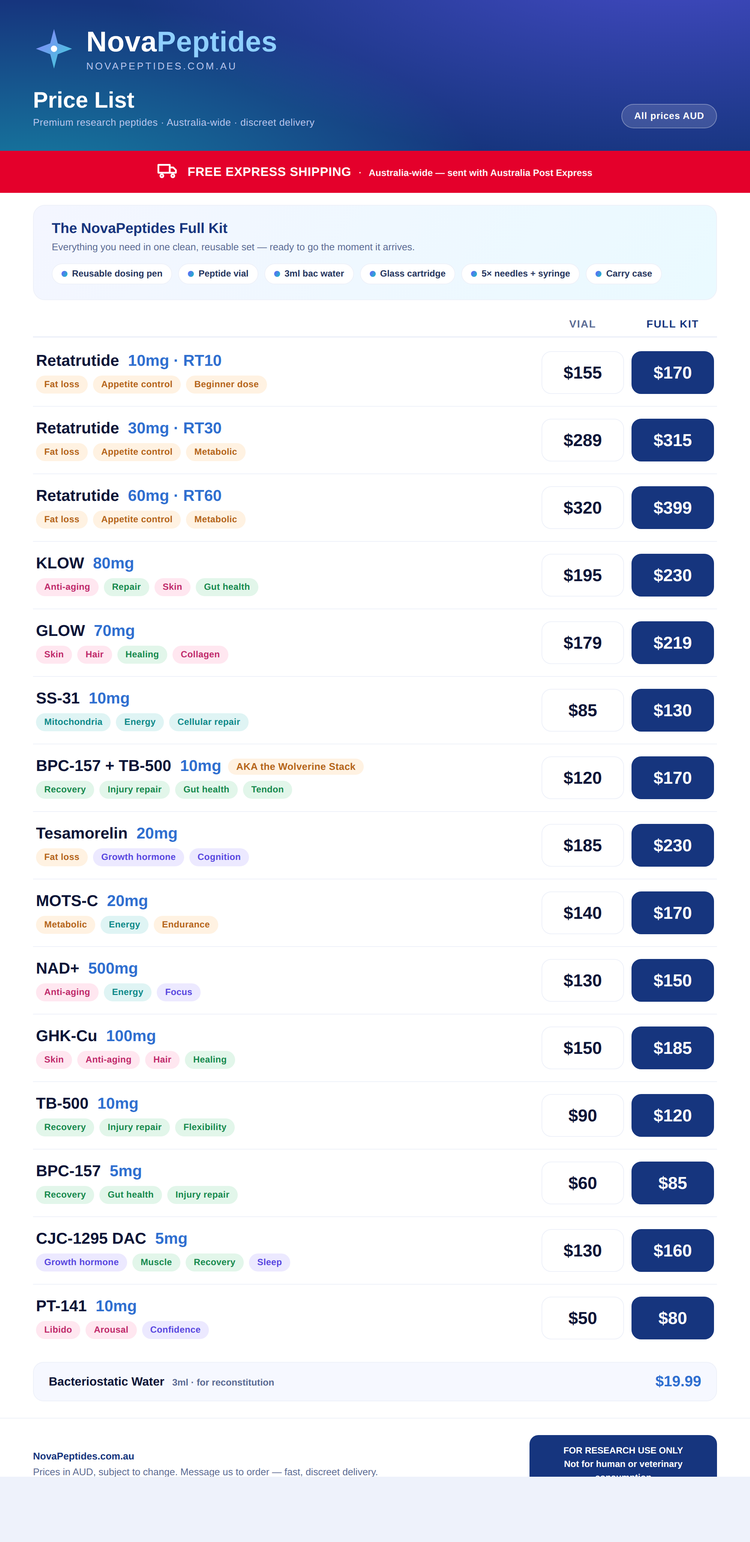
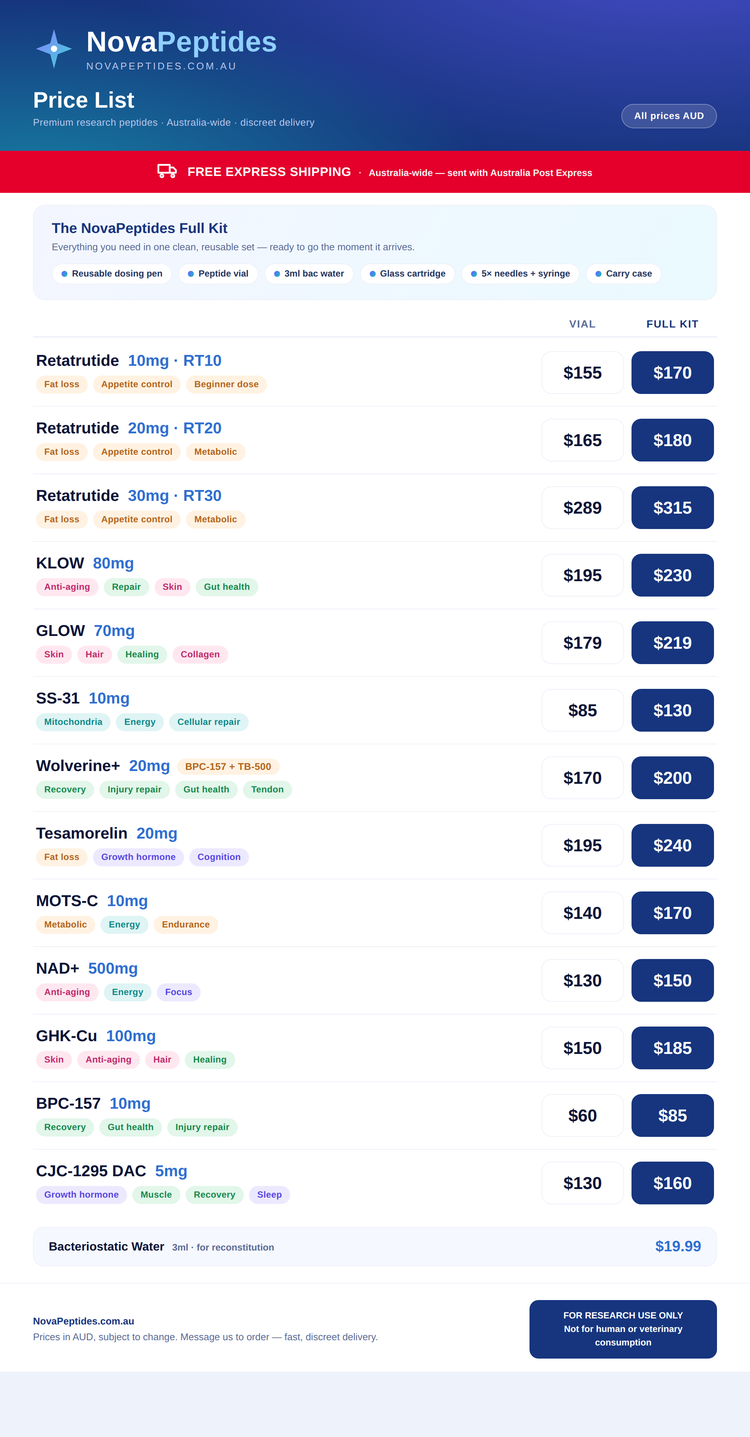
NovaPeptides: new supplier pricing + dose changes across P&L, price list, sales log, CSV
- New AUD cost prices for RT30, NAD+, KLOW, GLOW, Tesa, MOTS-C, SS-31, BPC-157, GHK-Cu, Wolverine
- Dose changes: MOTS-C 20->10mg, BPC-157 5->10mg, Wolverine 10->20mg (renamed Wolverine+)
- Added Reta RT20 (vial $165 / kit $180); Tesamorelin retail up to $195/$240; Wolverine+ $170/$200
- Removed Reta RT60, PT-141, standalone TB-500
- Recomputed totals: retail vials A$26,730 / kits A$31,790; cost of goods (current pricing) A$5,292
- Historical 'total spent' A$5,767 left unchanged (actual cash out)

Claude-Session: https://claude.ai/code/session_011vwkpM9KQ6PKS1DsXGJwTK

diff --git a/docs/index.html b/docs/index.html
@@ -85,23 +85,23 @@
         <div class="url">Profit &amp; Loss &middot; NovaPeptides.com.au</div>
       </div>
     </div>
-    <div class="basis">All AUD &middot; USD&rarr;AUD 1.45 &middot; kit parts A$22.95/kit &middot; 15 products &middot; updated 15 Jul 2026</div>
+    <div class="basis">All AUD &middot; USD&rarr;AUD 1.45 &middot; kit parts A$22.95/kit &middot; 13 products &middot; updated 17 Jul 2026</div>
 
     <div class="kpis">
       <div class="kpi accent">
         <div class="label">Retail &mdash; all vials</div>
-        <div class="val">A$28,980</div>
-        <div class="sub">profit A$24,894</div>
+        <div class="val">A$26,730</div>
+        <div class="sub">profit A$21,438</div>
       </div>
       <div class="kpi accent">
         <div class="label">Retail &mdash; all kits</div>
-        <div class="val">A$35,480</div>
-        <div class="sub">profit A$27,033</div>
+        <div class="val">A$31,790</div>
+        <div class="sub">profit A$22,597</div>
       </div>
       <div class="kpi">
-        <div class="label">Cost of goods (stock landed)</div>
-        <div class="val">A$4,086</div>
-        <div class="sub">190 vials &middot; 15 products</div>
+        <div class="label">Cost of goods (current pricing)</div>
+        <div class="val">A$5,292</div>
+        <div class="sub">170 vials &middot; 13 products</div>
       </div>
       <div class="kpi ship">
         <div class="label">Total spent (all in)</div>
@@ -144,25 +144,25 @@
   <div class="cards">
 
     <div class="pcard">
-      <h3>Reta RT60</h3>
-      <div class="pcost">Peptide cost <b>A$47.34</b>/vial (shipping incl)</div>
+      <h3>Reta RT30</h3>
+      <div class="pcost">Peptide cost <b>A$45.00</b>/vial (shipping incl)</div>
       <div class="variant"><div class="vleft"><span class="vtag vial">Vial</span>
-        <div class="vmeta">Retail A$320 &middot; cost A$47.34 &middot; <span class="mg">85%</span></div></div>
-        <div class="vprofit"><span class="plabel">Pure profit</span>A$272.66</div></div>
+        <div class="vmeta">Retail A$289 &middot; cost A$45.00 &middot; <span class="mg">84%</span></div></div>
+        <div class="vprofit"><span class="plabel">Pure profit</span>A$244.00</div></div>
       <div class="variant"><div class="vleft"><span class="vtag kit">Kit</span>
-        <div class="vmeta">Retail A$399 &middot; cost A$70.30 (peptide + parts A$22.95) &middot; <span class="mg">82%</span></div></div>
-        <div class="vprofit"><span class="plabel">Pure profit</span>A$328.70</div></div>
+        <div class="vmeta">Retail A$315 &middot; cost A$67.95 (peptide + parts A$22.95) &middot; <span class="mg">78%</span></div></div>
+        <div class="vprofit"><span class="plabel">Pure profit</span>A$247.05</div></div>
     </div>
 
     <div class="pcard">
-      <h3>Reta RT30</h3>
-      <div class="pcost">Peptide cost <b>A$31.31</b>/vial (shipping incl)</div>
+      <h3>Reta RT20 <span style="font-size:11px;color:var(--violet);font-weight:800">new</span></h3>
+      <div class="pcost">Peptide cost <b>A$25.00</b>/vial (shipping incl)</div>
       <div class="variant"><div class="vleft"><span class="vtag vial">Vial</span>
-        <div class="vmeta">Retail A$289 &middot; cost A$31.31 &middot; <span class="mg">89%</span></div></div>
-        <div class="vprofit"><span class="plabel">Pure profit</span>A$257.69</div></div>
+        <div class="vmeta">Retail A$165 &middot; cost A$25.00 &middot; <span class="mg">85%</span></div></div>
+        <div class="vprofit"><span class="plabel">Pure profit</span>A$140.00</div></div>
       <div class="variant"><div class="vleft"><span class="vtag kit">Kit</span>
-        <div class="vmeta">Retail A$315 &middot; cost A$54.26 (peptide + parts A$22.95) &middot; <span class="mg">83%</span></div></div>
-        <div class="vprofit"><span class="plabel">Pure profit</span>A$260.74</div></div>
+        <div class="vmeta">Retail A$180 &middot; cost A$47.95 (peptide + parts A$22.95) &middot; <span class="mg">73%</span></div></div>
+        <div class="vprofit"><span class="plabel">Pure profit</span>A$132.05</div></div>
     </div>
 
     <div class="pcard">
@@ -177,102 +177,80 @@
     </div>
 
     <div class="pcard">
-      <h3>GLOW 70mg</h3>
-      <div class="pcost">Peptide cost <b>A$33.13</b>/vial (shipping incl)</div>
-      <div class="variant"><div class="vleft"><span class="vtag vial">Vial</span>
-        <div class="vmeta">Retail A$179 &middot; cost A$33.13 &middot; <span class="mg">81%</span></div></div>
-        <div class="vprofit"><span class="plabel">Pure profit</span>A$145.87</div></div>
-      <div class="variant"><div class="vleft"><span class="vtag kit">Kit</span>
-        <div class="vmeta">Retail A$219 &middot; cost A$56.09 (peptide + parts A$22.95) &middot; <span class="mg">74%</span></div></div>
-        <div class="vprofit"><span class="plabel">Pure profit</span>A$162.91</div></div>
-    </div>
-
-    <div class="pcard">
       <h3>KLOW 80mg</h3>
-      <div class="pcost">Peptide cost <b>A$39.09</b>/vial (shipping incl)</div>
+      <div class="pcost">Peptide cost <b>A$40.00</b>/vial (shipping incl)</div>
       <div class="variant"><div class="vleft"><span class="vtag vial">Vial</span>
-        <div class="vmeta">Retail A$195 &middot; cost A$39.09 &middot; <span class="mg">80%</span></div></div>
-        <div class="vprofit"><span class="plabel">Pure profit</span>A$155.91</div></div>
+        <div class="vmeta">Retail A$195 &middot; cost A$40.00 &middot; <span class="mg">79%</span></div></div>
+        <div class="vprofit"><span class="plabel">Pure profit</span>A$155.00</div></div>
       <div class="variant"><div class="vleft"><span class="vtag kit">Kit</span>
-        <div class="vmeta">Retail A$230 &middot; cost A$62.05 (peptide + parts A$22.95) &middot; <span class="mg">73%</span></div></div>
-        <div class="vprofit"><span class="plabel">Pure profit</span>A$167.95</div></div>
+        <div class="vmeta">Retail A$230 &middot; cost A$62.95 (peptide + parts A$22.95) &middot; <span class="mg">73%</span></div></div>
+        <div class="vprofit"><span class="plabel">Pure profit</span>A$167.05</div></div>
     </div>
 
     <div class="pcard">
-      <h3>SS-31 10mg</h3>
-      <div class="pcost">Peptide cost <b>A$14.96</b>/vial (shipping incl)</div>
+      <h3>GLOW 70mg</h3>
+      <div class="pcost">Peptide cost <b>A$35.00</b>/vial (shipping incl)</div>
       <div class="variant"><div class="vleft"><span class="vtag vial">Vial</span>
-        <div class="vmeta">Retail A$85 &middot; cost A$14.96 &middot; <span class="mg">82%</span></div></div>
-        <div class="vprofit"><span class="plabel">Pure profit</span>A$70.04</div></div>
+        <div class="vmeta">Retail A$179 &middot; cost A$35.00 &middot; <span class="mg">80%</span></div></div>
+        <div class="vprofit"><span class="plabel">Pure profit</span>A$144.00</div></div>
       <div class="variant"><div class="vleft"><span class="vtag kit">Kit</span>
-        <div class="vmeta">Retail A$130 &middot; cost A$37.92 (peptide + parts A$22.95) &middot; <span class="mg">71%</span></div></div>
-        <div class="vprofit"><span class="plabel">Pure profit</span>A$92.08</div></div>
-    </div>
-
-    <div class="pcard">
-      <h3>BPC-157 + TB-500</h3>
-      <div class="pcost">Peptide cost <b>A$17.11</b>/vial (shipping incl)</div>
-      <div class="variant"><div class="vleft"><span class="vtag vial">Vial</span>
-        <div class="vmeta">Retail A$120 &middot; cost A$17.11 &middot; <span class="mg">86%</span></div></div>
-        <div class="vprofit"><span class="plabel">Pure profit</span>A$102.89</div></div>
-      <div class="variant"><div class="vleft"><span class="vtag kit">Kit</span>
-        <div class="vmeta">Retail A$170 &middot; cost A$40.06 (peptide + parts A$22.95) &middot; <span class="mg">76%</span></div></div>
-        <div class="vprofit"><span class="plabel">Pure profit</span>A$129.94</div></div>
+        <div class="vmeta">Retail A$219 &middot; cost A$57.95 (peptide + parts A$22.95) &middot; <span class="mg">74%</span></div></div>
+        <div class="vprofit"><span class="plabel">Pure profit</span>A$161.05</div></div>
     </div>
 
     <div class="pcard">
       <h3>Tesamorelin 20mg</h3>
-      <div class="pcost">Peptide cost <b>A$27.86</b>/vial (shipping incl)</div>
+      <div class="pcost">Peptide cost <b>A$55.00</b>/vial (shipping incl)</div>
       <div class="variant"><div class="vleft"><span class="vtag vial">Vial</span>
-        <div class="vmeta">Retail A$185 &middot; cost A$27.86 &middot; <span class="mg">85%</span></div></div>
-        <div class="vprofit"><span class="plabel">Pure profit</span>A$157.14</div></div>
+        <div class="vmeta">Retail A$195 &middot; cost A$55.00 &middot; <span class="mg">72%</span></div></div>
+        <div class="vprofit"><span class="plabel">Pure profit</span>A$140.00</div></div>
       <div class="variant"><div class="vleft"><span class="vtag kit">Kit</span>
-        <div class="vmeta">Retail A$230 &middot; cost A$50.81 (peptide + parts A$22.95) &middot; <span class="mg">78%</span></div></div>
-        <div class="vprofit"><span class="plabel">Pure profit</span>A$179.19</div></div>
+        <div class="vmeta">Retail A$240 &middot; cost A$77.95 (peptide + parts A$22.95) &middot; <span class="mg">68%</span></div></div>
+        <div class="vprofit"><span class="plabel">Pure profit</span>A$162.05</div></div>
     </div>
 
     <div class="pcard">
-      <h3>MOTS-C 20mg</h3>
-      <div class="pcost">Peptide cost <b>A$23.15</b>/vial (shipping incl)</div>
+      <h3>Wolverine+ <span style="font-size:11px;color:var(--violet);font-weight:800">20mg</span></h3>
+      <div class="pcost">Peptide cost <b>A$45.00</b>/vial (shipping incl) &middot; BPC-157 + TB-500</div>
       <div class="variant"><div class="vleft"><span class="vtag vial">Vial</span>
-        <div class="vmeta">Retail A$140 &middot; cost A$23.15 &middot; <span class="mg">83%</span></div></div>
-        <div class="vprofit"><span class="plabel">Pure profit</span>A$116.85</div></div>
+        <div class="vmeta">Retail A$170 &middot; cost A$45.00 &middot; <span class="mg">74%</span></div></div>
+        <div class="vprofit"><span class="plabel">Pure profit</span>A$125.00</div></div>
       <div class="variant"><div class="vleft"><span class="vtag kit">Kit</span>
-        <div class="vmeta">Retail A$170 &middot; cost A$46.10 (peptide + parts A$22.95) &middot; <span class="mg">73%</span></div></div>
-        <div class="vprofit"><span class="plabel">Pure profit</span>A$123.90</div></div>
-    </div>
-
-    <div class="pcard">
-      <h3>NAD+ 500mg</h3>
-      <div class="pcost">Peptide cost <b>A$12.30</b>/vial (shipping incl)</div>
-      <div class="variant"><div class="vleft"><span class="vtag vial">Vial</span>
-        <div class="vmeta">Retail A$130 &middot; cost A$12.30 &middot; <span class="mg">91%</span></div></div>
-        <div class="vprofit"><span class="plabel">Pure profit</span>A$117.70</div></div>
-      <div class="variant"><div class="vleft"><span class="vtag kit">Kit</span>
-        <div class="vmeta">Retail A$150 &middot; cost A$35.25 (peptide + parts A$22.95) &middot; <span class="mg">76%</span></div></div>
-        <div class="vprofit"><span class="plabel">Pure profit</span>A$114.75</div></div>
+        <div class="vmeta">Retail A$200 &middot; cost A$67.95 (peptide + parts A$22.95) &middot; <span class="mg">66%</span></div></div>
+        <div class="vprofit"><span class="plabel">Pure profit</span>A$132.05</div></div>
     </div>
 
     <div class="pcard">
       <h3>GHK-Cu 100mg</h3>
-      <div class="pcost">Peptide cost <b>A$9.48</b>/vial (shipping incl)</div>
+      <div class="pcost">Peptide cost <b>A$26.00</b>/vial (shipping incl)</div>
       <div class="variant"><div class="vleft"><span class="vtag vial">Vial</span>
-        <div class="vmeta">Retail A$150 &middot; cost A$9.48 &middot; <span class="mg">94%</span></div></div>
-        <div class="vprofit"><span class="plabel">Pure profit</span>A$140.52</div></div>
+        <div class="vmeta">Retail A$150 &middot; cost A$26.00 &middot; <span class="mg">83%</span></div></div>
+        <div class="vprofit"><span class="plabel">Pure profit</span>A$124.00</div></div>
       <div class="variant"><div class="vleft"><span class="vtag kit">Kit</span>
-        <div class="vmeta">Retail A$185 &middot; cost A$32.43 (peptide + parts A$22.95) &middot; <span class="mg">82%</span></div></div>
-        <div class="vprofit"><span class="plabel">Pure profit</span>A$152.57</div></div>
+        <div class="vmeta">Retail A$185 &middot; cost A$48.95 (peptide + parts A$22.95) &middot; <span class="mg">74%</span></div></div>
+        <div class="vprofit"><span class="plabel">Pure profit</span>A$136.05</div></div>
     </div>
 
     <div class="pcard">
-      <h3>TB-500 10mg</h3>
-      <div class="pcost">Peptide cost <b>A$18.26</b>/vial (shipping incl)</div>
+      <h3>MOTS-C 10mg</h3>
+      <div class="pcost">Peptide cost <b>A$24.00</b>/vial (shipping incl)</div>
       <div class="variant"><div class="vleft"><span class="vtag vial">Vial</span>
-        <div class="vmeta">Retail A$90 &middot; cost A$18.26 &middot; <span class="mg">80%</span></div></div>
-        <div class="vprofit"><span class="plabel">Pure profit</span>A$71.74</div></div>
+        <div class="vmeta">Retail A$140 &middot; cost A$24.00 &middot; <span class="mg">83%</span></div></div>
+        <div class="vprofit"><span class="plabel">Pure profit</span>A$116.00</div></div>
       <div class="variant"><div class="vleft"><span class="vtag kit">Kit</span>
-        <div class="vmeta">Retail A$120 &middot; cost A$41.21 (peptide + parts A$22.95) &middot; <span class="mg">66%</span></div></div>
-        <div class="vprofit"><span class="plabel">Pure profit</span>A$78.79</div></div>
+        <div class="vmeta">Retail A$170 &middot; cost A$46.95 (peptide + parts A$22.95) &middot; <span class="mg">72%</span></div></div>
+        <div class="vprofit"><span class="plabel">Pure profit</span>A$123.05</div></div>
+    </div>
+
+    <div class="pcard">
+      <h3>NAD+ 500mg</h3>
+      <div class="pcost">Peptide cost <b>A$22.50</b>/vial (shipping incl)</div>
+      <div class="variant"><div class="vleft"><span class="vtag vial">Vial</span>
+        <div class="vmeta">Retail A$130 &middot; cost A$22.50 &middot; <span class="mg">83%</span></div></div>
+        <div class="vprofit"><span class="plabel">Pure profit</span>A$107.50</div></div>
+      <div class="variant"><div class="vleft"><span class="vtag kit">Kit</span>
+        <div class="vmeta">Retail A$150 &middot; cost A$45.45 (peptide + parts A$22.95) &middot; <span class="mg">70%</span></div></div>
+        <div class="vprofit"><span class="plabel">Pure profit</span>A$104.55</div></div>
     </div>
 
     <div class="pcard">
@@ -287,25 +265,25 @@
     </div>
 
     <div class="pcard">
-      <h3>PT-141 10mg</h3>
-      <div class="pcost">Peptide cost <b>A$11.78</b>/vial (shipping incl)</div>
+      <h3>SS-31 10mg</h3>
+      <div class="pcost">Peptide cost <b>A$37.00</b>/vial (shipping incl)</div>
       <div class="variant"><div class="vleft"><span class="vtag vial">Vial</span>
-        <div class="vmeta">Retail A$50 &middot; cost A$11.78 &middot; <span class="mg">76%</span></div></div>
-        <div class="vprofit"><span class="plabel">Pure profit</span>A$38.22</div></div>
+        <div class="vmeta">Retail A$85 &middot; cost A$37.00 &middot; <span class="mg">56%</span></div></div>
+        <div class="vprofit"><span class="plabel">Pure profit</span>A$48.00</div></div>
       <div class="variant"><div class="vleft"><span class="vtag kit">Kit</span>
-        <div class="vmeta">Retail A$80 &middot; cost A$34.73 (peptide + parts A$22.95) &middot; <span class="mg">57%</span></div></div>
-        <div class="vprofit"><span class="plabel">Pure profit</span>A$45.27</div></div>
+        <div class="vmeta">Retail A$130 &middot; cost A$59.95 (peptide + parts A$22.95) &middot; <span class="mg">54%</span></div></div>
+        <div class="vprofit"><span class="plabel">Pure profit</span>A$70.05</div></div>
     </div>
 
     <div class="pcard">
-      <h3>BPC-157 5mg</h3>
-      <div class="pcost">Peptide cost <b>A$20.06</b>/vial (shipping incl)</div>
+      <h3>BPC-157 10mg</h3>
+      <div class="pcost">Peptide cost <b>A$18.00</b>/vial (shipping incl)</div>
       <div class="variant"><div class="vleft"><span class="vtag vial">Vial</span>
-        <div class="vmeta">Retail A$60 &middot; cost A$20.06 &middot; <span class="mg">67%</span></div></div>
-        <div class="vprofit"><span class="plabel">Pure profit</span>A$39.94</div></div>
+        <div class="vmeta">Retail A$60 &middot; cost A$18.00 &middot; <span class="mg">70%</span></div></div>
+        <div class="vprofit"><span class="plabel">Pure profit</span>A$42.00</div></div>
       <div class="variant"><div class="vleft"><span class="vtag kit">Kit</span>
-        <div class="vmeta">Retail A$85 &middot; cost A$43.01 (peptide + parts A$22.95) &middot; <span class="mg">49%</span></div></div>
-        <div class="vprofit"><span class="plabel">Pure profit</span>A$41.99</div></div>
+        <div class="vmeta">Retail A$85 &middot; cost A$40.95 (peptide + parts A$22.95) &middot; <span class="mg">52%</span></div></div>
+        <div class="vprofit"><span class="plabel">Pure profit</span>A$44.05</div></div>
     </div>
 
   </div>
@@ -315,10 +293,9 @@
     freight is spread across that order's products &mdash; converted to AUD at 1.45. <b>Every kit</b> adds the kit parts
     &mdash; BAC water, 5 needle heads, glass cartridge, carry bag, reusable pen and syringe &mdash; totalling
     <b>A$22.95 per kit</b> (shown above, excluding the peptide). So a kit's true cost = peptide cost + A$22.95.
-    <b>Freight A$1,044</b> ($720 USD across 4 orders) is already baked into each vial's landed cost, so it is
-    <b>not</b> added again on kits. Stock + freight across 4 orders <b>A$4,367</b> ($3,011.40 USD); cost of goods
-    <b>A$4,086</b> across 190 vials / 15 products. Plus <b>batch testing A$1,400</b> &mdash; total spent all in
-    <b>A$5,767</b>.
+    <b>not</b> added again on kits. Peptide costs shown are current supplier pricing (AUD). Cost of goods at current
+    pricing <b>A$5,292</b> across 170 vials / 13 products. Separately, what we&rsquo;ve actually spent to date is
+    <b>A$5,767</b> &mdash; stock + freight across 4 orders <b>A$4,367</b> ($3,011.40 USD) plus <b>batch testing A$1,400</b>.
   </div>
 
   <a href="/nova-sales" style="display:block;text-align:center;margin-top:18px;padding:15px;border-radius:14px;

diff --git a/pricing/price-list-v2.html b/pricing/price-list-v2.html
@@ -107,13 +107,13 @@
         <div class="pills"><span class="pill2 p-amber">Fat loss</span><span class="pill2 p-amber">Appetite control</span><span class="pill2 p-amber">Beginner dose</span></div></div>
         <div class="prices"><div class="pbox"><div class="pr">$155</div></div><div class="pbox kit2"><div class="pr">$170</div></div></div></div>
 
+      <div class="prow"><div class="pinfo"><div class="pname">Retatrutide <span class="mg">20mg &middot; RT20</span></div>
+        <div class="pills"><span class="pill2 p-amber">Fat loss</span><span class="pill2 p-amber">Appetite control</span><span class="pill2 p-amber">Metabolic</span></div></div>
+        <div class="prices"><div class="pbox"><div class="pr">$165</div></div><div class="pbox kit2"><div class="pr">$180</div></div></div></div>
+
       <div class="prow"><div class="pinfo"><div class="pname">Retatrutide <span class="mg">30mg &middot; RT30</span></div>
         <div class="pills"><span class="pill2 p-amber">Fat loss</span><span class="pill2 p-amber">Appetite control</span><span class="pill2 p-amber">Metabolic</span></div></div>
         <div class="prices"><div class="pbox"><div class="pr">$289</div></div><div class="pbox kit2"><div class="pr">$315</div></div></div></div>
-
-      <div class="prow"><div class="pinfo"><div class="pname">Retatrutide <span class="mg">60mg &middot; RT60</span></div>
-        <div class="pills"><span class="pill2 p-amber">Fat loss</span><span class="pill2 p-amber">Appetite control</span><span class="pill2 p-amber">Metabolic</span></div></div>
-        <div class="prices"><div class="pbox"><div class="pr">$320</div></div><div class="pbox kit2"><div class="pr">$399</div></div></div></div>
 
       <div class="prow"><div class="pinfo"><div class="pname">KLOW <span class="mg">80mg</span></div>
         <div class="pills"><span class="pill2 p-pink">Anti-aging</span><span class="pill2 p-green">Repair</span><span class="pill2 p-pink">Skin</span><span class="pill2 p-green">Gut health</span></div></div>
@@ -127,15 +127,15 @@
         <div class="pills"><span class="pill2 p-teal">Mitochondria</span><span class="pill2 p-teal">Energy</span><span class="pill2 p-teal">Cellular repair</span></div></div>
         <div class="prices"><div class="pbox"><div class="pr">$85</div></div><div class="pbox kit2"><div class="pr">$130</div></div></div></div>
 
-      <div class="prow"><div class="pinfo"><div class="pname">BPC-157 + TB-500 <span class="mg">10mg</span><span class="nick">AKA the Wolverine Stack</span></div>
+      <div class="prow"><div class="pinfo"><div class="pname">Wolverine+ <span class="mg">20mg</span><span class="nick">BPC-157 + TB-500</span></div>
         <div class="pills"><span class="pill2 p-green">Recovery</span><span class="pill2 p-green">Injury repair</span><span class="pill2 p-green">Gut health</span><span class="pill2 p-green">Tendon</span></div></div>
-        <div class="prices"><div class="pbox"><div class="pr">$120</div></div><div class="pbox kit2"><div class="pr">$170</div></div></div></div>
+        <div class="prices"><div class="pbox"><div class="pr">$170</div></div><div class="pbox kit2"><div class="pr">$200</div></div></div></div>
 
       <div class="prow"><div class="pinfo"><div class="pname">Tesamorelin <span class="mg">20mg</span></div>
         <div class="pills"><span class="pill2 p-amber">Fat loss</span><span class="pill2 p-ind">Growth hormone</span><span class="pill2 p-ind">Cognition</span></div></div>
-        <div class="prices"><div class="pbox"><div class="pr">$185</div></div><div class="pbox kit2"><div class="pr">$230</div></div></div></div>
+        <div class="prices"><div class="pbox"><div class="pr">$195</div></div><div class="pbox kit2"><div class="pr">$240</div></div></div></div>
 
-      <div class="prow"><div class="pinfo"><div class="pname">MOTS-C <span class="mg">20mg</span></div>
+      <div class="prow"><div class="pinfo"><div class="pname">MOTS-C <span class="mg">10mg</span></div>
         <div class="pills"><span class="pill2 p-amber">Metabolic</span><span class="pill2 p-teal">Energy</span><span class="pill2 p-amber">Endurance</span></div></div>
         <div class="prices"><div class="pbox"><div class="pr">$140</div></div><div class="pbox kit2"><div class="pr">$170</div></div></div></div>
 
@@ -147,21 +147,13 @@
         <div class="pills"><span class="pill2 p-pink">Skin</span><span class="pill2 p-pink">Anti-aging</span><span class="pill2 p-pink">Hair</span><span class="pill2 p-green">Healing</span></div></div>
         <div class="prices"><div class="pbox"><div class="pr">$150</div></div><div class="pbox kit2"><div class="pr">$185</div></div></div></div>
 
-      <div class="prow"><div class="pinfo"><div class="pname">TB-500 <span class="mg">10mg</span></div>
-        <div class="pills"><span class="pill2 p-green">Recovery</span><span class="pill2 p-green">Injury repair</span><span class="pill2 p-green">Flexibility</span></div></div>
-        <div class="prices"><div class="pbox"><div class="pr">$90</div></div><div class="pbox kit2"><div class="pr">$120</div></div></div></div>
-
-      <div class="prow"><div class="pinfo"><div class="pname">BPC-157 <span class="mg">5mg</span></div>
+      <div class="prow"><div class="pinfo"><div class="pname">BPC-157 <span class="mg">10mg</span></div>
         <div class="pills"><span class="pill2 p-green">Recovery</span><span class="pill2 p-green">Gut health</span><span class="pill2 p-green">Injury repair</span></div></div>
         <div class="prices"><div class="pbox"><div class="pr">$60</div></div><div class="pbox kit2"><div class="pr">$85</div></div></div></div>
 
       <div class="prow"><div class="pinfo"><div class="pname">CJC-1295 DAC <span class="mg">5mg</span></div>
         <div class="pills"><span class="pill2 p-ind">Growth hormone</span><span class="pill2 p-green">Muscle</span><span class="pill2 p-green">Recovery</span><span class="pill2 p-ind">Sleep</span></div></div>
         <div class="prices"><div class="pbox"><div class="pr">$130</div></div><div class="pbox kit2"><div class="pr">$160</div></div></div></div>
-
-      <div class="prow"><div class="pinfo"><div class="pname">PT-141 <span class="mg">10mg</span></div>
-        <div class="pills"><span class="pill2 p-pink">Libido</span><span class="pill2 p-pink">Arousal</span><span class="pill2 p-ind">Confidence</span></div></div>
-        <div class="prices"><div class="pbox"><div class="pr">$50</div></div><div class="pbox kit2"><div class="pr">$80</div></div></div></div>
     </div>
 
     <div class="bac"><div class="n">Bacteriostatic Water <span>3ml &middot; for reconstitution</span></div><div class="pr">$19.99</div></div>

diff --git a/docs/nova-sales.html b/docs/nova-sales.html
@@ -193,21 +193,19 @@
 
 <script>
   const PRODUCTS = [
-    {name:'Reta RT60 — Vial',price:320,cost:47.34},{name:'Reta RT60 — Full Kit',price:399,cost:70.29},
-    {name:'Reta RT30 — Vial',price:289,cost:31.31},{name:'Reta RT30 — Full Kit',price:315,cost:54.26},
-    {name:'KLOW 80mg — Vial',price:195,cost:39.09},{name:'KLOW 80mg — Full Kit',price:230,cost:62.04},
-    {name:'GLOW 70mg — Vial',price:179,cost:33.13},{name:'GLOW 70mg — Full Kit',price:219,cost:56.08},
-    {name:'BPC-157 + TB-500 — Vial',price:120,cost:17.11},{name:'BPC-157 + TB-500 — Kit',price:170,cost:40.06},
-    {name:'SS-31 10mg — Vial',price:85,cost:14.96},{name:'SS-31 10mg — Full Kit',price:130,cost:37.91},
-    {name:'Tesamorelin 20mg — Vial',price:185,cost:27.86},{name:'Tesamorelin 20mg — Kit',price:230,cost:50.81},
+    {name:'Reta RT30 — Vial',price:289,cost:45.00},{name:'Reta RT30 — Full Kit',price:315,cost:67.95},
+    {name:'Reta RT20 — Vial',price:165,cost:25.00},{name:'Reta RT20 — Kit',price:180,cost:47.95},
     {name:'Reta RT10 — Vial',price:155,cost:14.25},{name:'Reta RT10 — Kit',price:170,cost:37.20},
-    {name:'MOTS-C 20mg — Vial',price:140,cost:23.15},{name:'MOTS-C 20mg — Kit',price:170,cost:46.10},
-    {name:'NAD+ 500mg — Vial',price:130,cost:12.30},{name:'NAD+ 500mg — Kit',price:150,cost:35.25},
-    {name:'GHK-Cu 100mg — Vial',price:150,cost:9.48},{name:'GHK-Cu 100mg — Kit',price:185,cost:32.43},
-    {name:'TB-500 10mg — Vial',price:90,cost:18.26},{name:'TB-500 10mg — Kit',price:120,cost:41.21},
+    {name:'KLOW 80mg — Vial',price:195,cost:40.00},{name:'KLOW 80mg — Full Kit',price:230,cost:62.95},
+    {name:'GLOW 70mg — Vial',price:179,cost:35.00},{name:'GLOW 70mg — Full Kit',price:219,cost:57.95},
+    {name:'Tesamorelin 20mg — Vial',price:195,cost:55.00},{name:'Tesamorelin 20mg — Kit',price:240,cost:77.95},
+    {name:'Wolverine+ 20mg — Vial',price:170,cost:45.00},{name:'Wolverine+ 20mg — Kit',price:200,cost:67.95},
+    {name:'GHK-Cu 100mg — Vial',price:150,cost:26.00},{name:'GHK-Cu 100mg — Kit',price:185,cost:48.95},
+    {name:'MOTS-C 10mg — Vial',price:140,cost:24.00},{name:'MOTS-C 10mg — Kit',price:170,cost:46.95},
+    {name:'NAD+ 500mg — Vial',price:130,cost:22.50},{name:'NAD+ 500mg — Kit',price:150,cost:45.45},
     {name:'CJC-1295 DAC 5mg — Vial',price:130,cost:24.66},{name:'CJC-1295 DAC 5mg — Kit',price:160,cost:47.61},
-    {name:'PT-141 10mg — Vial',price:50,cost:11.78},{name:'PT-141 10mg — Kit',price:80,cost:34.73},
-    {name:'BPC-157 5mg — Vial',price:60,cost:20.06},{name:'BPC-157 5mg — Kit',price:85,cost:43.01},
+    {name:'SS-31 10mg — Vial',price:85,cost:37.00},{name:'SS-31 10mg — Full Kit',price:130,cost:59.95},
+    {name:'BPC-157 10mg — Vial',price:60,cost:18.00},{name:'BPC-157 10mg — Kit',price:85,cost:40.95},
     {name:'BAC Water 3ml',price:19.99,cost:1.12},{name:'Custom / other',price:'',cost:''},
   ]
   const $ = id => document.getElementById(id)
